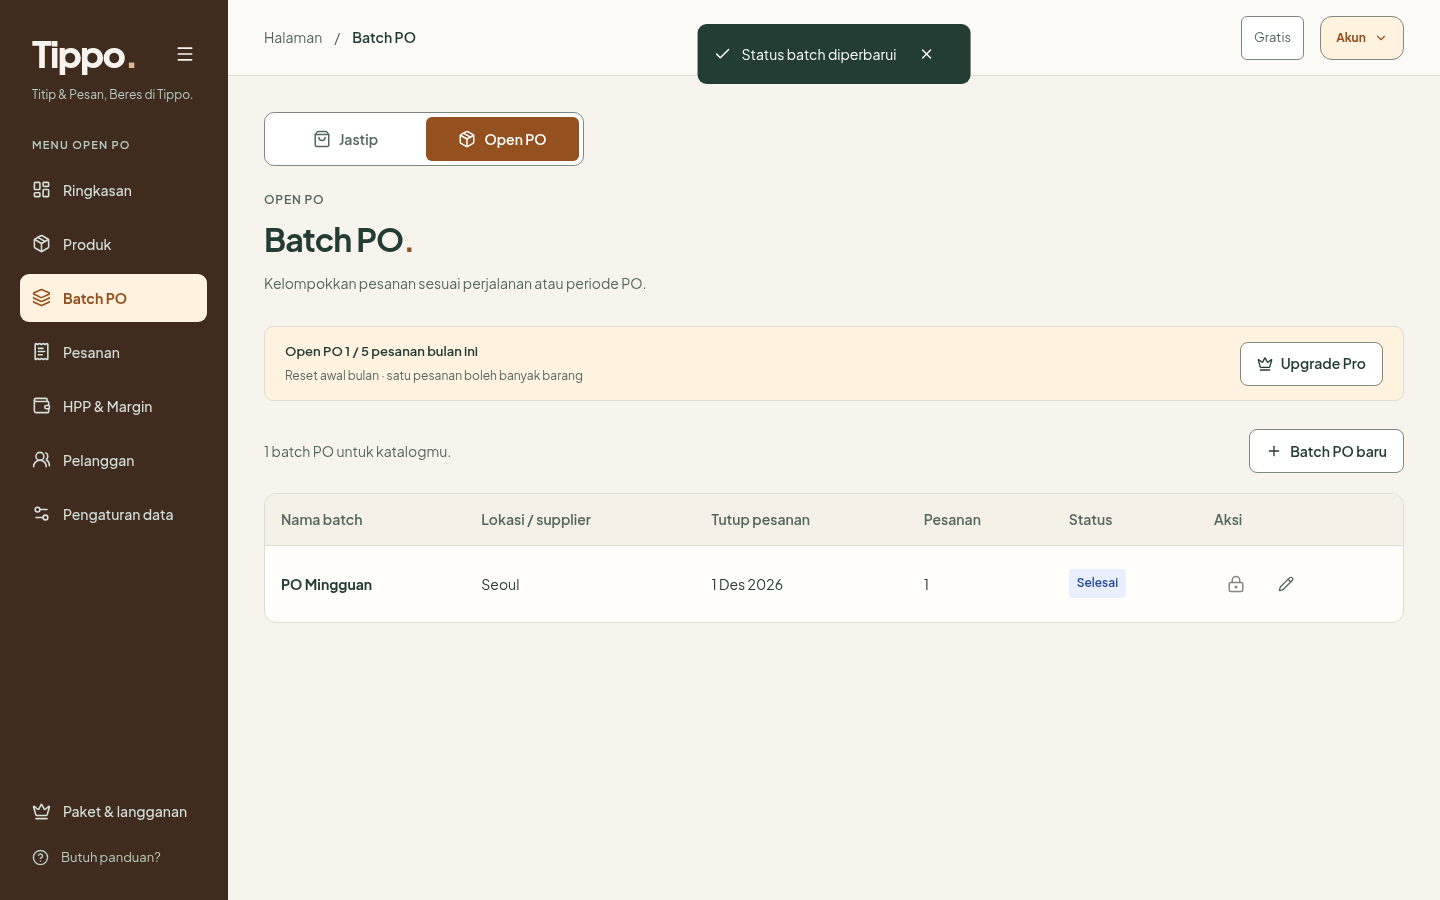
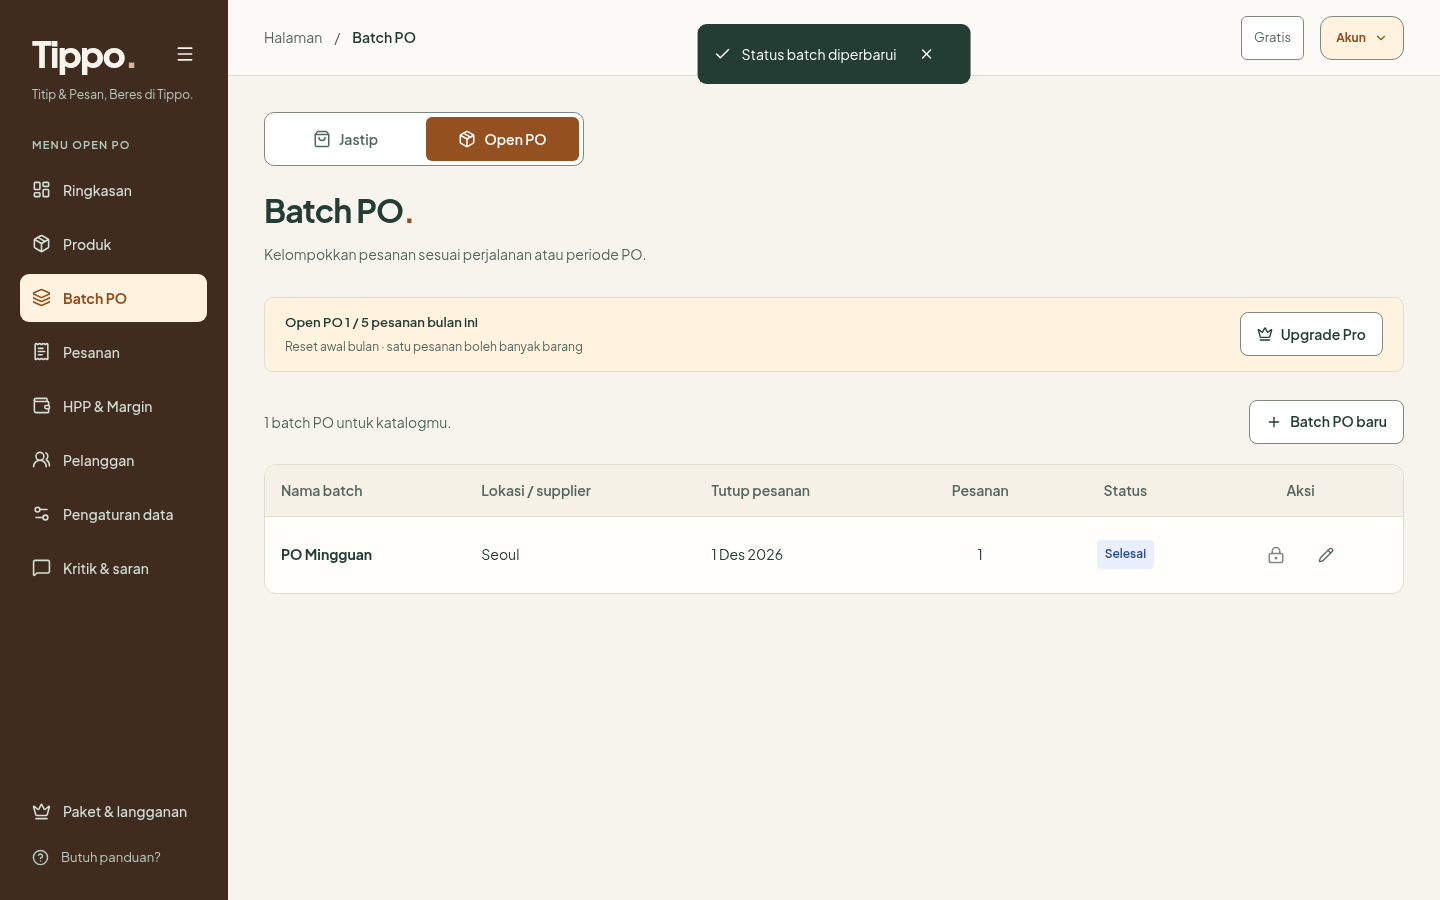
Align table counts statuses and actions consistently

diff --git a/tests/website.spec.ts b/tests/website.spec.ts
@@ -429,11 +429,39 @@ for(const failSave of [false,true])test(`account refund ${failSave?"retains form
  });
 
 test("customers use a searchable table with address and edit action",async({page})=>{
- const data=structuredClone(fixture);data.customers[0].phone="08123456789";data.customers[0].address="Jalan Mawar 12, Jakarta";await authenticate(page,{workspace:data});await page.goto("/app");await page.getByRole("navigation",{name:"Navigasi utama"}).getByRole("button",{name:"Pelanggan",exact:true}).click();const table=page.getByRole("table",{name:"Daftar pelanggan"});await expect(table).toContainText("Jalan Mawar 12, Jakarta");await expect(table).toContainText("08123456789");await table.screenshot({path:"docs/preview-customer-table-desktop.png"});await page.getByLabel("Cari pelanggan").fill("Tidak ada");await expect(page.getByText("Pelanggan tidak ditemukan",{exact:true})).toBeVisible();await page.getByRole("button",{name:"Reset pencarian"}).click();await table.getByRole("button",{name:"Edit pelanggan Alya"}).click();await expect(page.getByRole("dialog",{name:"Edit pelanggan"}).getByLabel("Alamat (opsional)")).toHaveValue("Jalan Mawar 12, Jakarta");await page.keyboard.press("Escape");await page.setViewportSize({width:390,height:844});expect(await page.evaluate(()=>document.documentElement.scrollWidth)).toBe(390);await table.screenshot({path:"docs/preview-customer-table-mobile.png"});
+ const data=structuredClone(fixture);
+ data.customers[0].phone="08123456789"; data.customers[0].address="Jalan Mawar 12, Jakarta";
+ await authenticate(page,{workspace:data}); await page.goto("/app"); await openSection(page,"Pelanggan");
+ const table=page.getByRole("table",{name:"Daftar pelanggan"});
+ await expect(table).toContainText("Jalan Mawar 12, Jakarta"); await expect(table).toContainText("08123456789");
+ await expect(table.getByRole("columnheader",{name:"Jumlah pesanan"})).toHaveCSS("text-align","center");
+ await expect(table.locator('td[data-label="Jumlah pesanan"]')).toHaveCSS("text-align","center");
+ await expect(table.getByRole("columnheader",{name:"Aksi"})).toHaveCSS("text-align","center");
+ await table.screenshot({path:"docs/preview-customer-table-desktop.png"});
+ await page.getByLabel("Cari pelanggan").fill("Tidak ada"); await expect(page.getByText("Pelanggan tidak ditemukan",{exact:true})).toBeVisible();
+ await page.getByRole("button",{name:"Reset pencarian"}).click(); await table.getByRole("button",{name:"Edit pelanggan Alya"}).click();
+ await expect(page.getByRole("dialog",{name:"Edit pelanggan"}).getByLabel("Alamat (opsional)")).toHaveValue("Jalan Mawar 12, Jakarta");
+ await page.keyboard.press("Escape"); await page.setViewportSize({width:390,height:844});
+ expect(await page.evaluate(()=>document.documentElement.scrollWidth)).toBe(390);
+ await expect(table).not.toBeVisible(); await page.locator(".mobile-data-list").screenshot({path:"docs/preview-customer-table-mobile.png"});
 });
 
 test("dashboard recent orders are read only while Jastip retains actions",async({page})=>{
- const data=structuredClone(fixture);data.orders.push({id:"recent-test",batchId:"trip",customerId:"aly",date:new Date().toLocaleDateString("en-CA",{timeZone:"Asia/Jakarta"}),createdAt:new Date().toISOString(),status:"new",paid:0,serviceFee:0,shippingCharge:0,notes:"",items:[{id:"recent-item",product:"Barang Ringkasan",productId:null,variant:"",color:"",size:"",quantity:1,unitPrice:25000,unitCost:12000}]});await authenticate(page,{workspace:data});await page.goto("/app");const recent=page.locator(".recent-card");await expect(recent).toContainText("Barang Ringkasan");await expect(recent).toContainText("Tercatat");await expect(recent.getByRole("button")).toHaveCount(0);await expect(recent.getByRole("combobox")).toHaveCount(0);await expect(recent.getByRole("columnheader",{name:"Tindakan"})).toHaveCount(0);const alignment=await recent.locator("table").evaluate(t=>{const h=t.querySelector(".status-column-title")!,v=t.querySelector("tbody .status-tag")!;const hr=document.createRange();hr.selectNodeContents(h);const vr=document.createRange();vr.selectNodeContents(v);return Math.abs(hr.getBoundingClientRect().x-vr.getBoundingClientRect().x);});expect(alignment).toBeLessThan(1);await recent.screenshot({path:"docs/preview-dashboard-orders-readonly.png"});await openBusiness(page,"Jastip");await openSection(page,"Pesanan");await expect(page.getByRole("button",{name:"Edit pesanan Barang Ringkasan"})).toBeVisible();await expect(page.getByLabel("Status pesanan Barang Ringkasan untuk Alya")).toBeVisible();
+ const data=structuredClone(fixture);
+ data.orders.push({id:"recent-test",batchId:"trip",customerId:"aly",date:new Date().toLocaleDateString("en-CA",{timeZone:"Asia/Jakarta"}),createdAt:new Date().toISOString(),status:"new",paid:0,serviceFee:0,shippingCharge:0,notes:"",items:[{id:"recent-item",product:"Barang Ringkasan",productId:null,variant:"",color:"",size:"",quantity:1,unitPrice:25000,unitCost:12000}]});
+ await authenticate(page,{workspace:data}); await page.goto("/app"); const recent=page.locator(".recent-card");
+ await expect(recent).toContainText("Barang Ringkasan"); await expect(recent).toContainText("Tercatat");
+ await expect(recent.getByRole("button")).toHaveCount(0); await expect(recent.getByRole("combobox")).toHaveCount(0);
+ await expect(recent.getByRole("columnheader",{name:"Tindakan"})).toHaveCount(0);
+ const alignment=await recent.locator("table").evaluate(t=>{
+   const h=t.querySelector(".status-column-title")!,v=t.querySelector("tbody .status-tag")!;
+   const hr=h.getBoundingClientRect(),vr=v.getBoundingClientRect();
+   return Math.abs((hr.x+hr.width/2)-(vr.x+vr.width/2));
+ });
+ expect(alignment).toBeLessThan(1); await recent.screenshot({path:"docs/preview-dashboard-orders-readonly.png"});
+ await openBusiness(page,"Jastip"); await openSection(page,"Pesanan");
+ await expect(page.getByRole("button",{name:"Edit pesanan Barang Ringkasan"})).toBeVisible();
+ await expect(page.getByLabel("Status pesanan Barang Ringkasan untuk Alya")).toBeVisible();
 });
 
 test("product status dropdown confirms archive and preserves status on cancel",async({page})=>{

diff --git a/src/components/hpp-panel.tsx b/src/components/hpp-panel.tsx
@@ -68,13 +68,13 @@ export function HppPanel({ batch, data, onSave }: { batch: Batch; data: AppData;
     {hasLegacyCosts && <p className="field-hint" style={{ marginBottom: 20 }}>Batch ini memiliki biaya lama {formatCurrency(batch.directCosts)} yang tetap diperhitungkan dalam HPP agar histori tidak berubah.</p>}
     <section className="card">
       <div className="card-header"><div><h2>Rincian harga beli</h2><p>HPP dihitung dari harga beli per barang × jumlah.</p></div><span className="type-badge">{orders.reduce((sum, order) => sum + orderQuantity(order), 0)} UNIT</span></div>
-      <div className="table-wrap"><table className="orders-table hpp-table"><thead><tr><th scope="col">Barang</th><th scope="col" className="numeric-cell">Jumlah</th><th scope="col">Harga beli / unit</th>{hasLegacyCosts && <th scope="col" className="numeric-cell">Biaya lama</th>}<th scope="col" className="numeric-cell">HPP pesanan</th><th scope="col" className="numeric-cell">Margin pesanan</th></tr></thead>
+      <div className="table-wrap"><table className="orders-table hpp-table"><thead><tr><th scope="col">Barang</th><th scope="col" className="numeric-cell center-cell">Jumlah</th><th scope="col">Harga beli / unit</th>{hasLegacyCosts && <th scope="col" className="numeric-cell">Biaya lama</th>}<th scope="col" className="numeric-cell">HPP pesanan</th><th scope="col" className="numeric-cell">Margin pesanan</th></tr></thead>
         <tbody>{orders.flatMap((order) => {
           const preview = previewOrders.find((entry) => entry.id === order.id)!;
           const cost = orderHpp(preview, previewOrders, data.batches);
           return order.items.map((item, index) => <tr key={fieldKey(order.id, item.id)}>
             <td><div className="row-title">{itemLabel(item)}</div><div className="row-subtitle">{data.customers.find((customer) => customer.id === order.customerId)?.name}{order.items.length > 1 ? ` · Barang ${index + 1}/${order.items.length}` : ""}</div></td>
-            <td className="numeric-cell">{item.quantity} pcs</td>
+            <td className="numeric-cell center-cell">{item.quantity} pcs</td>
             <td><div className="cost-input small"><span>Rp</span><NumberInput className="input" aria-label={inputLabel(order.id, item, order.items.length)} min="0" step="1" placeholder="Belum diisi" value={costs[fieldKey(order.id, item.id)] ?? ""} onValueChange={(value) => setCosts({ ...costs, [fieldKey(order.id, item.id)]: value })} /></div></td>
             {index === 0 && <>{hasLegacyCosts && <td className="numeric-cell" rowSpan={order.items.length}>{formatCurrency(allocated[order.id] ?? 0)}</td>}<td className="numeric-cell" rowSpan={order.items.length}>{cost === null ? <span className="status-tag status-new">Belum lengkap</span> : formatCurrency(cost)}</td><td rowSpan={order.items.length} className={`numeric-cell ${cost !== null && orderRevenue(order) - cost < 0 ? "negative" : "positive"}`}>{cost === null ? "Belum lengkap" : formatCurrency(orderRevenue(order) - cost)}</td></>}
           </tr>);

diff --git a/src/components/excel-import.tsx b/src/components/excel-import.tsx
@@ -219,12 +219,12 @@ export function ExcelImportDialog({ type, data, importAllowed, defaultBatchId, o
             <div className="table-wrap" style={{ maxHeight: 320, overflowY: "auto" }} tabIndex={0} role="region" aria-label="Pratinjau baris Excel">
               <table className="orders-table">
                 <caption className="sr-only">Pesanan dari Excel yang akan ditambahkan; baris bermasalah perlu diperbaiki di file.</caption>
-                <thead><tr><th scope="col">Baris / nomor</th><th scope="col">Pelanggan</th><th scope="col">{type === "po" ? "Produk" : "Barang"}</th><th scope="col" className="numeric-cell">Jumlah</th><th scope="col" className="numeric-cell">Tagihan</th><th scope="col">Validasi</th></tr></thead>
+                <thead><tr><th scope="col">Baris / nomor</th><th scope="col">Pelanggan</th><th scope="col">{type === "po" ? "Produk" : "Barang"}</th><th scope="col" className="numeric-cell center-cell">Jumlah</th><th scope="col" className="numeric-cell">Tagihan</th><th scope="col">Validasi</th></tr></thead>
                 <tbody>{preview.rows.map((row) => <tr key={row.rowNumber}>
                   <td style={{ whiteSpace: "normal", minWidth: 100 }}>{row.rowNumbers.join(", ")}{row.orderNumber && <div className="field-hint" style={{ overflowWrap: "anywhere" }}>{row.orderNumber}</div>}</td>
                   <td style={{ whiteSpace: "normal", minWidth: 120 }}>{row.customer || "Belum terisi"}</td>
                   <td style={{ whiteSpace: "normal", minWidth: 150 }}>{row.product || "Belum terisi"}</td>
-                  <td className="numeric-cell">{row.quantity ?? "Belum terisi"}</td>
+                  <td className="numeric-cell center-cell">{row.quantity ?? "Belum terisi"}</td>
                   <td className="numeric-cell">{row.total === null ? "Belum lengkap" : formatCurrency(row.total)}</td>
                   <td style={{ whiteSpace: "normal", minWidth: row.errors.length ? 230 : 70 }}>
                     {row.errors.length

diff --git a/src/app/globals.css b/src/app/globals.css
@@ -242,7 +242,7 @@ svg { flex-shrink: 0; }
 .orders-table tbody tr:hover { background: var(--tone-surface-f6f6ee); }
 .orders-table .numeric-cell { text-align: right; }
 .orders-table .customer-column-title { display: block; padding-left: 46px; }
-.orders-table .status-column-title { display: block; padding-left: 13px; }
+.orders-table .status-column-title { display: block; }
 .orders-table .actions-cell { text-align: center; }
 .orders-table .order-actions { display: flex; justify-content: center; gap: 4px; }
 .customer-cell { display: flex; align-items: center; gap: 10px; }
@@ -801,10 +801,17 @@ input:disabled, textarea:disabled, input[readonly], textarea[readonly], .select-
 .customer-address-cell { max-width:360px; white-space:pre-line; }
 /* Match status heading inset to the label text, just like the editable select. */
 .orders-readonly td > .status-tag { padding-left:13px; padding-right:13px; }
-/* Order table headings and values share left alignment. */
+/* Descriptions and currency stay left aligned; counts, statuses and actions are centered. */
 .orders-table .numeric-cell { text-align:left; }
-.management-table .numeric,.orders-table .actions-cell { text-align:left; }
-.orders-table .order-actions { justify-content:flex-start; }
+.management-table .numeric { text-align:left; }
+.orders-table .center-cell,.orders-table .actions-cell { text-align:center; }
+.orders-table .order-actions { justify-content:center; }
+@media(min-width:1101px) {
+ .management-table .center-cell,
+ .management-table th:nth-last-child(-n+2),
+ .management-table td:nth-last-child(-n+2) { text-align:center; }
+ .management-table .management-actions { justify-content:center; }
+}
 .mobile-data-list { display:none; }
 .mobile-detail-fields { display:grid; grid-template-columns:110px minmax(0,1fr); gap:14px; margin-bottom:20px; }
 .mobile-detail-fields dt { color:var(--muted); font-size:13px; }

diff --git a/src/components/po-management-tables.tsx b/src/components/po-management-tables.tsx
@@ -29,12 +29,12 @@ export function BatchesTable({ title, batches, orders, onEdit, onStatus }: {
      details: <><dl className="mobile-detail-fields"><dt>Lokasi / supplier</dt><dd>{batch.origin || "Belum diisi"}</dd><dt>Tutup pesanan</dt><dd>{batch.closeDate}</dd><dt>Jumlah pesanan</dt><dd>{count(batch)}</dd><dt>Status</dt><dd>{badge(batch)}</dd></dl>{statusAction(batch)}<button className="btn btn-primary" data-close-detail onClick={() => onEdit(batch)}>Edit batch</button></>,
    }))} />
    <div className="card management-table-wrap desktop-data-table"><table className="management-table" aria-label={title}>
-     <thead><tr>{["Nama batch", "Lokasi / supplier", "Tutup pesanan", "Pesanan", "Status", "Aksi"].map(label => <th scope="col" key={label}>{label}</th>)}</tr></thead>
+     <thead><tr>{["Nama batch", "Lokasi / supplier", "Tutup pesanan", "Pesanan", "Status", "Aksi"].map(label => <th scope="col" key={label} className={label === "Pesanan" ? "center-cell" : undefined}>{label}</th>)}</tr></thead>
      <tbody>{batches.map(batch => <tr key={batch.id}>
        <td data-label="Nama batch"><h3>{batch.name}</h3></td>
        <td data-label="Lokasi / supplier">{batch.origin || "Belum diisi"}</td>
        <td data-label="Tutup pesanan">{new Date(`${batch.closeDate}T00:00:00`).toLocaleDateString("id-ID", { day: "numeric", month: "short", year: "numeric" })}</td>
-       <td data-label="Pesanan">{count(batch)}</td><td data-label="Status">{badge(batch)}</td>
+       <td data-label="Pesanan" className="center-cell">{count(batch)}</td><td data-label="Status">{badge(batch)}</td>
        <td data-label="Aksi"><div className="management-actions">{statusAction(batch)}<button className="icon-button" aria-label={`Edit batch ${batch.name}`} onClick={() => onEdit(batch)}><Pencil size={16} /></button></div></td>
      </tr>)}</tbody>
    </table></div>

diff --git a/src/components/orders-table.tsx b/src/components/orders-table.tsx
@@ -61,7 +61,7 @@ export function OrdersTable({ data, orders, onEdit, onStatus, onRefund, compact 
             <th scope="col" className="numeric-cell">Total tagihan</th>
             {!compact && <th scope="col" className="numeric-cell">HPP</th>}
             <th scope="col">Pembayaran</th>
-            <th scope="col"><span className="status-column-title">Status</span></th>
+            <th scope="col" className="center-cell"><span className="status-column-title">Status</span></th>
             {!readOnly && <th scope="col" className="actions-cell">Tindakan</th>}
           </tr>
         </thead>
@@ -99,7 +99,7 @@ export function OrdersTable({ data, orders, onEdit, onStatus, onRefund, compact 
                     <div className="row-subtitle">Sisa {formatCurrency(remaining)}</div>
                   </>}
                 </td>
-                <td>
+                <td className="center-cell">
                   {readOnly ? <span className={`status-tag status-${visibleOrderStatus(order.status)}`}>{statuses.find(s=>s.value===visibleOrderStatus(order.status))?.label}</span> : <Select className={`tiny-select status-tag status-${visibleOrderStatus(order.status)}`} value={visibleOrderStatus(order.status)} onValueChange={(value) => onStatus(order, value as Order["status"])} aria-label={`Status pesanan ${label} untuk ${customer?.name ?? "pelanggan"}`}>
                     {statuses.map((status) => <SelectOption key={status.value} value={status.value}>{status.label}</SelectOption>)}
                   </Select>}

diff --git a/docs/TABLE-ALIGNMENT.md b/docs/TABLE-ALIGNMENT.md
@@ -1,0 +1,5 @@
+# Perataan tabel
+
+Nama, deskripsi, tanggal, pembayaran dan nominal uang tetap rata kiri. Jumlah pesanan/barang, status dan tindakan rata tengah; judul mengikuti perataan sel. Berlaku pada tabel batch PO/perjalanan, produk, pelanggan, pesanan/ringkasan, jumlah barang pada HPP dan pratinjau impor pesanan. Tabel manajemen memakai dua kolom terakhir untuk status/jumlah pesanan dan aksi; kolom Pesanan pada batch diberi kelas center-cell eksplisit. Layout berlabel pada tablet dan daftar detail ponsel dipertahankan.
+
+Validasi: lint dan production build berhasil. Lima skenario browser lokal unik berhasil: pelanggan desktop/mobile, ringkasan readonly dengan pemeriksaan pusat judul/status, daftar detail mobile 390px, dan perubahan status batch desktop pada kedua mode. Tes pelanggan diperbarui untuk memotret daftar mobile yang terlihat; sebelumnya mencoba tabel desktop tersembunyi. Tes ringkasan diperbarui dari posisi kiri teks ke pusat judul/status sesuai perubahan desain. Kedua tes sempat gagal pada ekspektasi lama dan lulus setelah revisi. Screenshot batch, pelanggan desktop dan ringkasan ditinjau visual. Supabase dimock; deployment Vercel belum diverifikasi.
